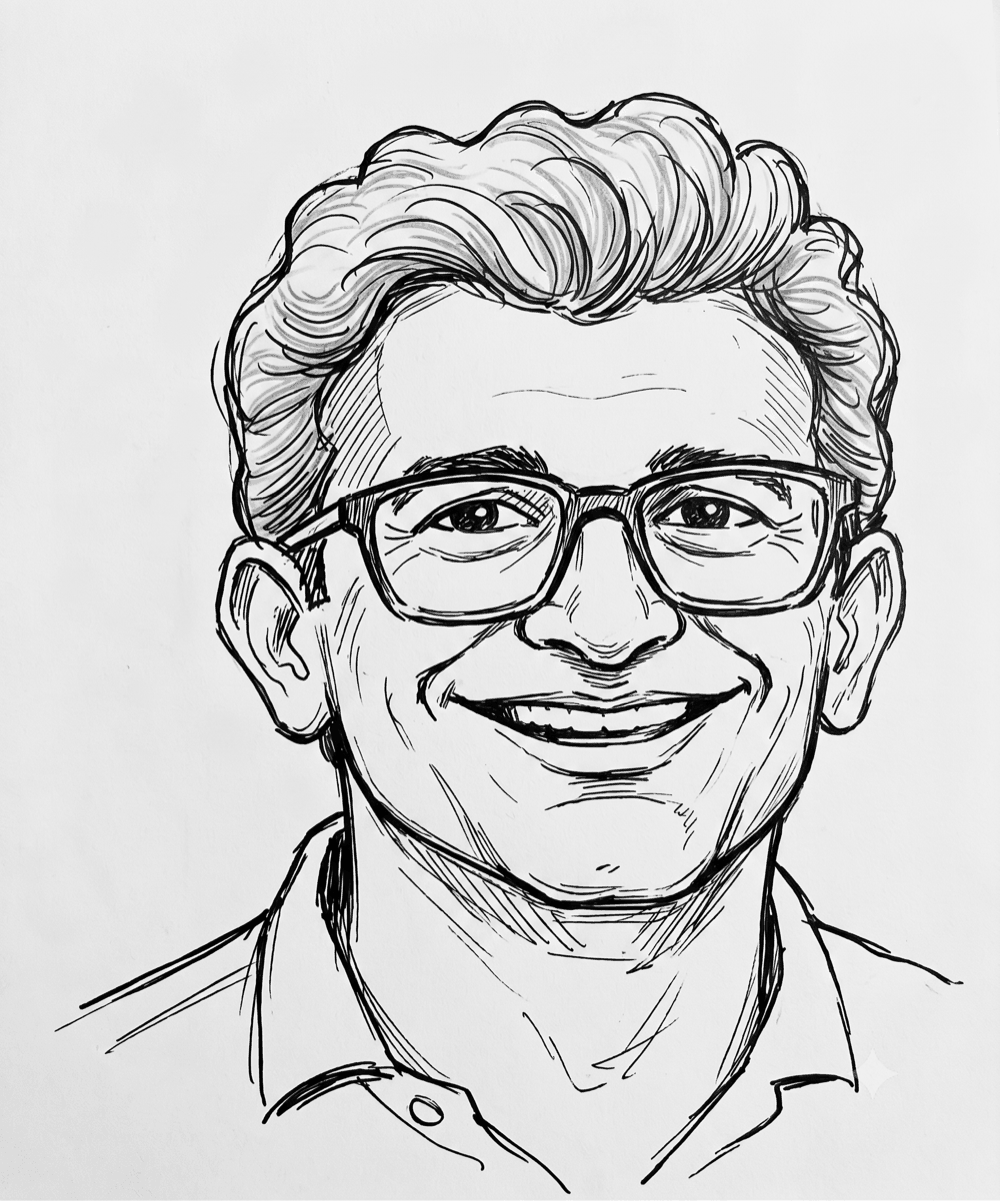
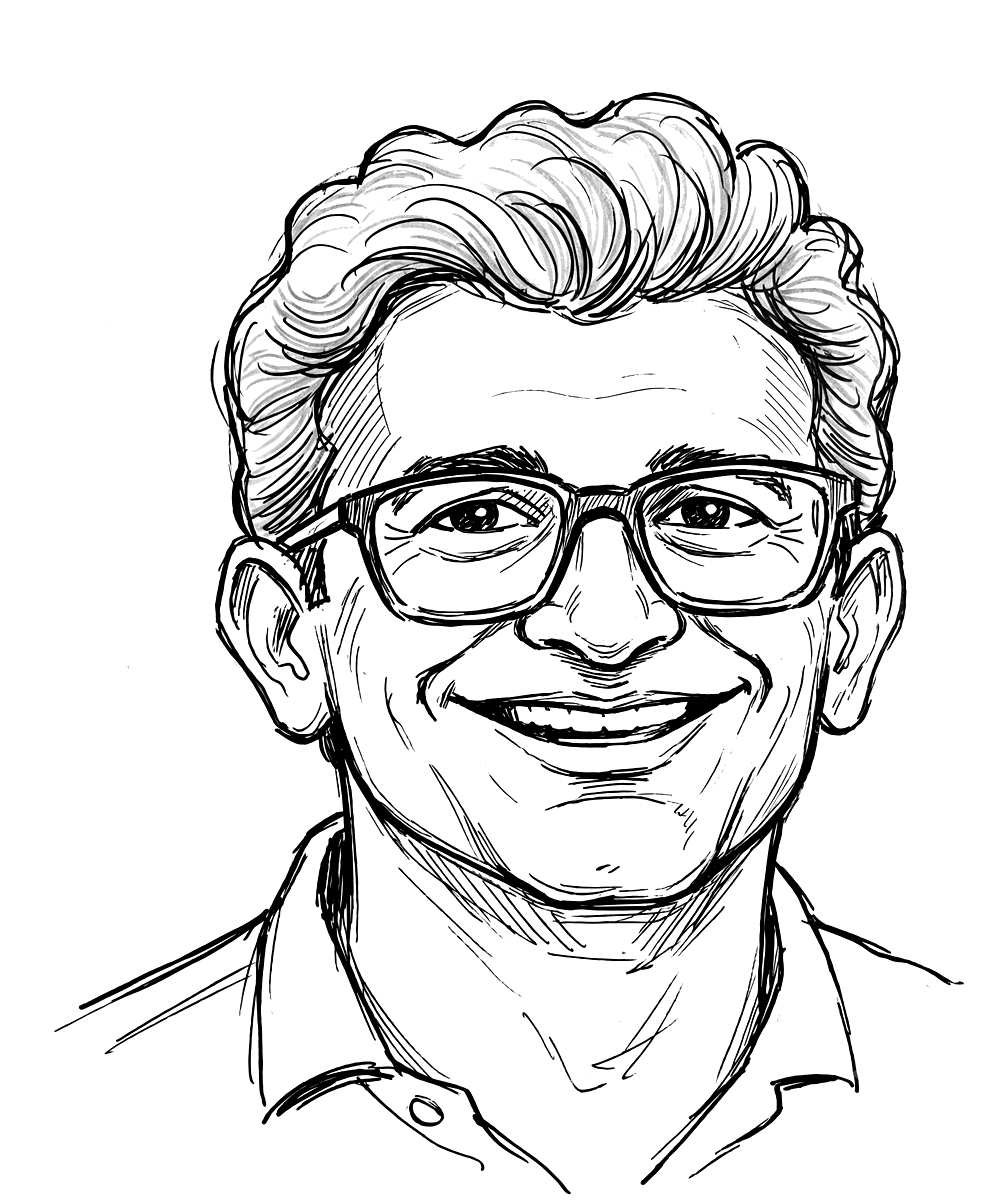
New tagline; transparent doodle background

diff --git a/assets/styles.css b/assets/styles.css
@@ -57,7 +57,7 @@ a:hover { text-decoration: underline; }
   letter-spacing: -0.01em;
 }
 .brand:hover { text-decoration: none; }
-.brand img { width: 42px; height: 42px; border-radius: 50%; border: 1px solid var(--line-c); object-fit: cover; object-position: 50% 30%; background: #fff; }
+.brand img { width: 42px; height: 42px; border-radius: 50%; border: 1px solid var(--line-c); object-fit: cover; object-position: 50% 30%; background: transparent; }
 .brand small { display: block; font-weight: 400; font-size: 0.68rem; color: var(--muted); letter-spacing: 0.08em; text-transform: uppercase; margin-top: 1px; }
 .nav-links { display: flex; gap: 8px; align-items: center; }
 .nav-links a {
@@ -122,7 +122,7 @@ a:hover { text-decoration: underline; }
   display: grid;
   place-items: center;
 }
-.doodle-frame img { width: 100%; max-width: 340px; border-radius: 16px; background: #fff; }
+.doodle-frame img { width: 100%; max-width: 340px; background: transparent; }
 .doodle-frame::before {
   content: "";
   position: absolute;

diff --git a/index.html b/index.html
@@ -32,7 +32,7 @@
       <div class="wrap hero-grid">
         <div>
           <span class="eyebrow">People, opportunities, introductions</span>
-          <h1>The right introduction changes everything.</h1>
+          <h1>I connect the right talent to the right roles.</h1>
           <p class="lead">
             I am Mehul Fozdar, the person behind Staffchief. I help companies find
             the people they need and help good people find the right roles. No heavy